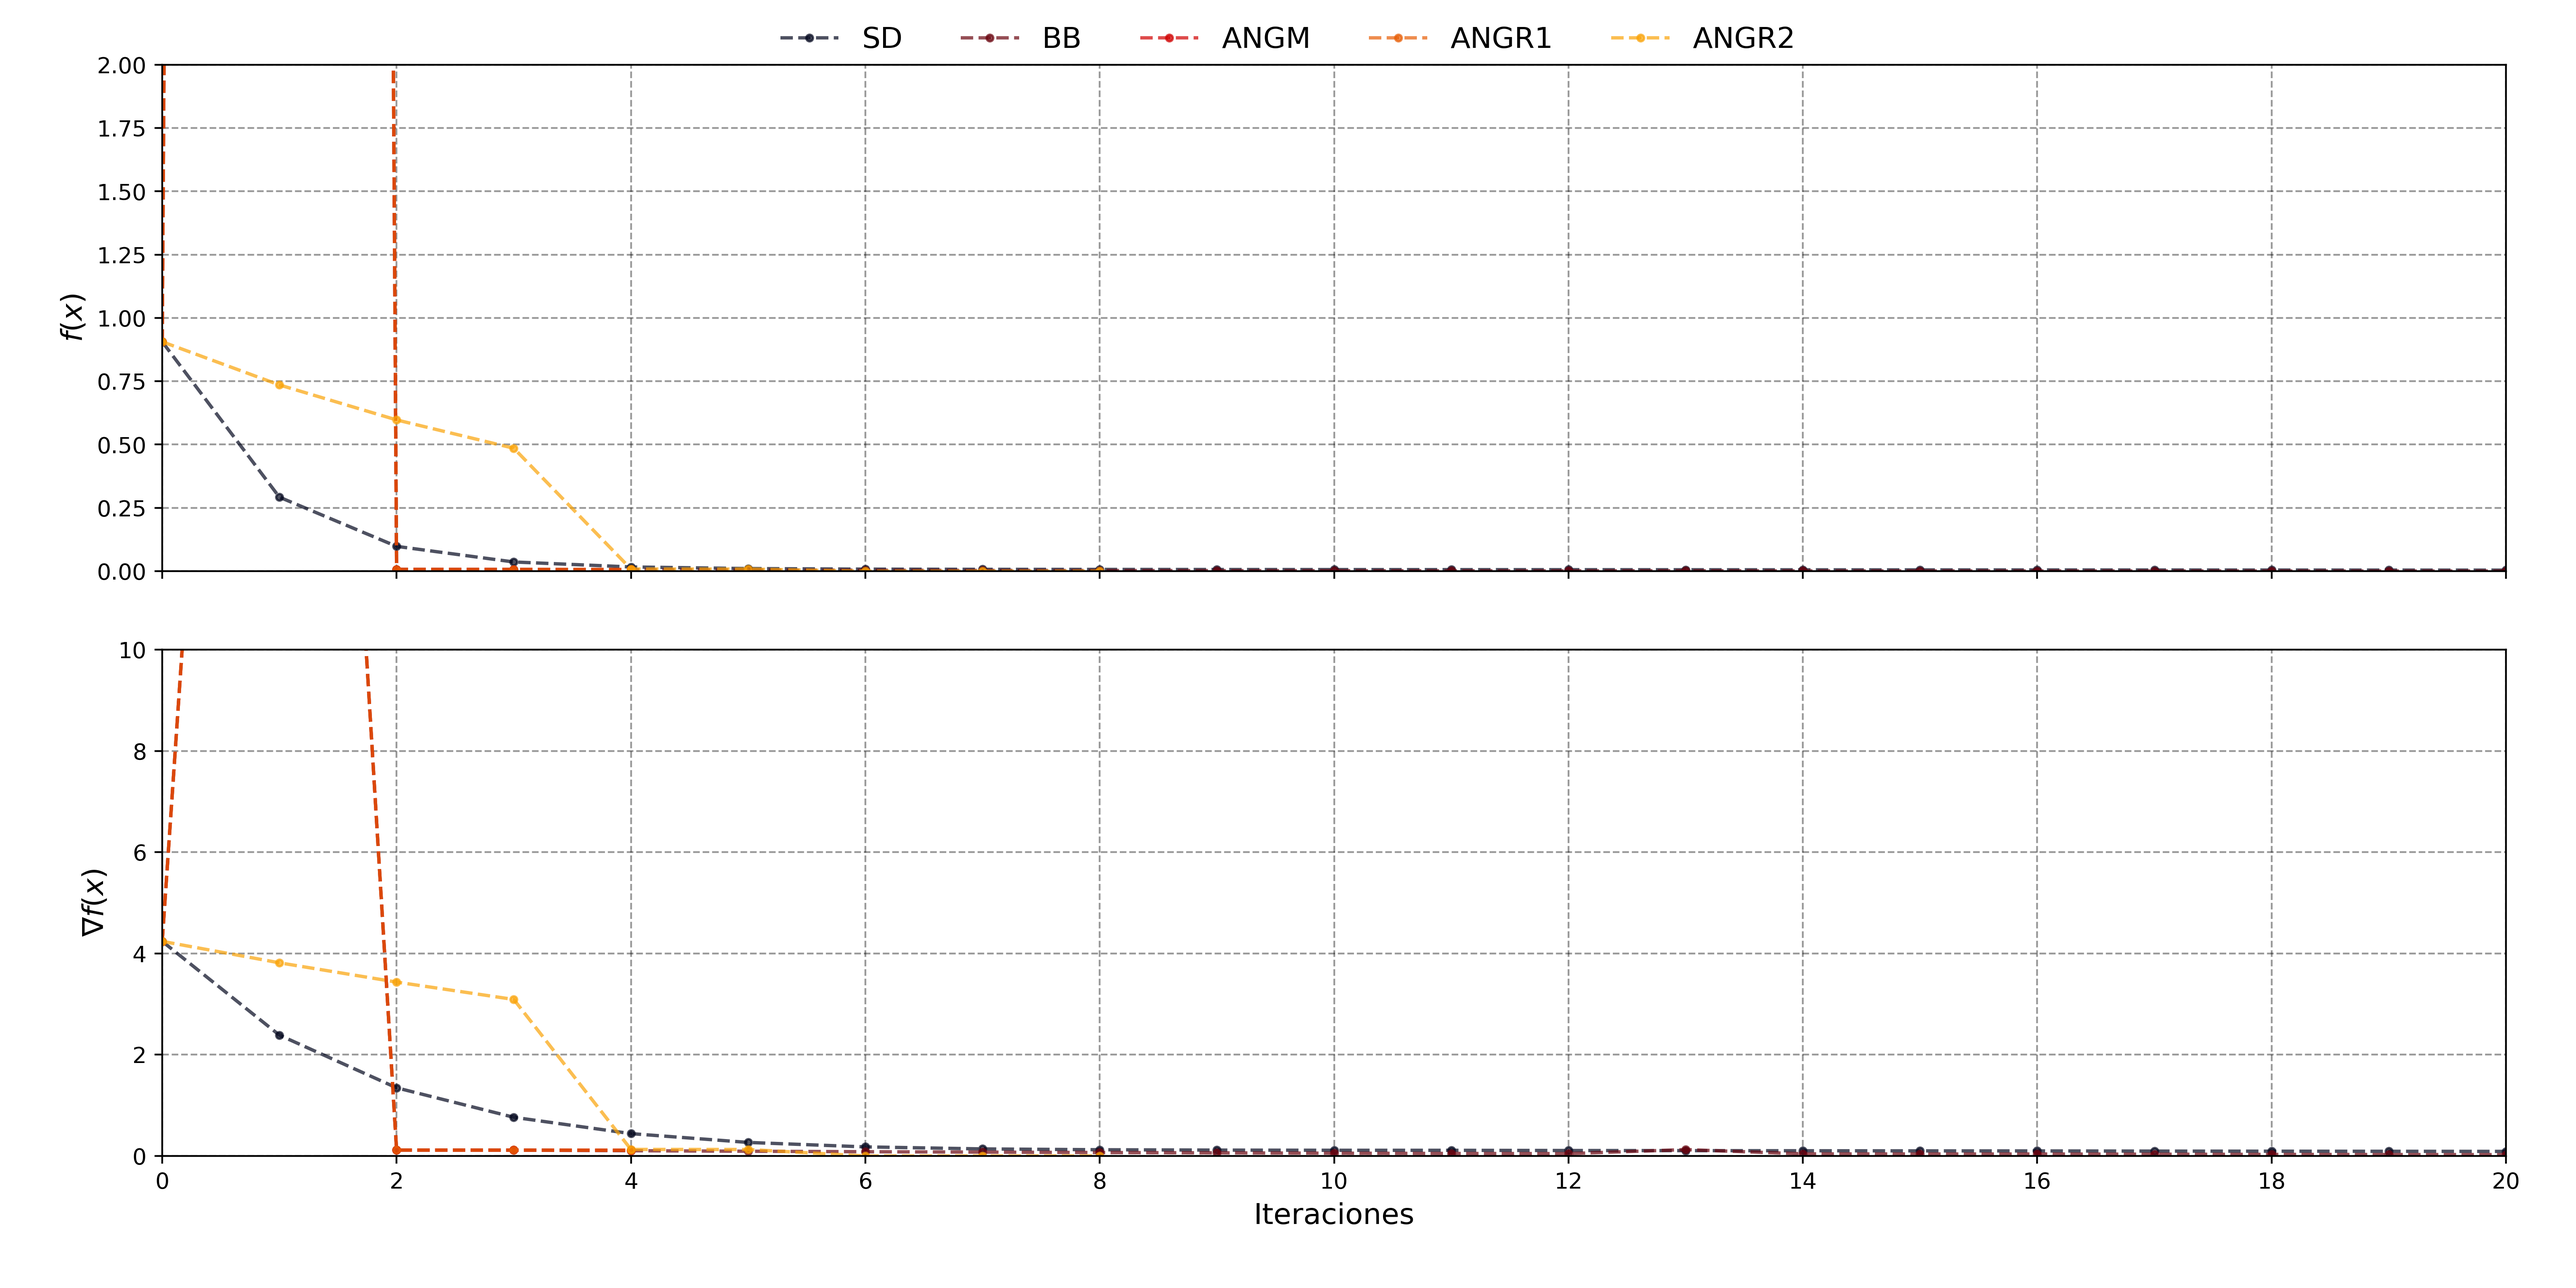
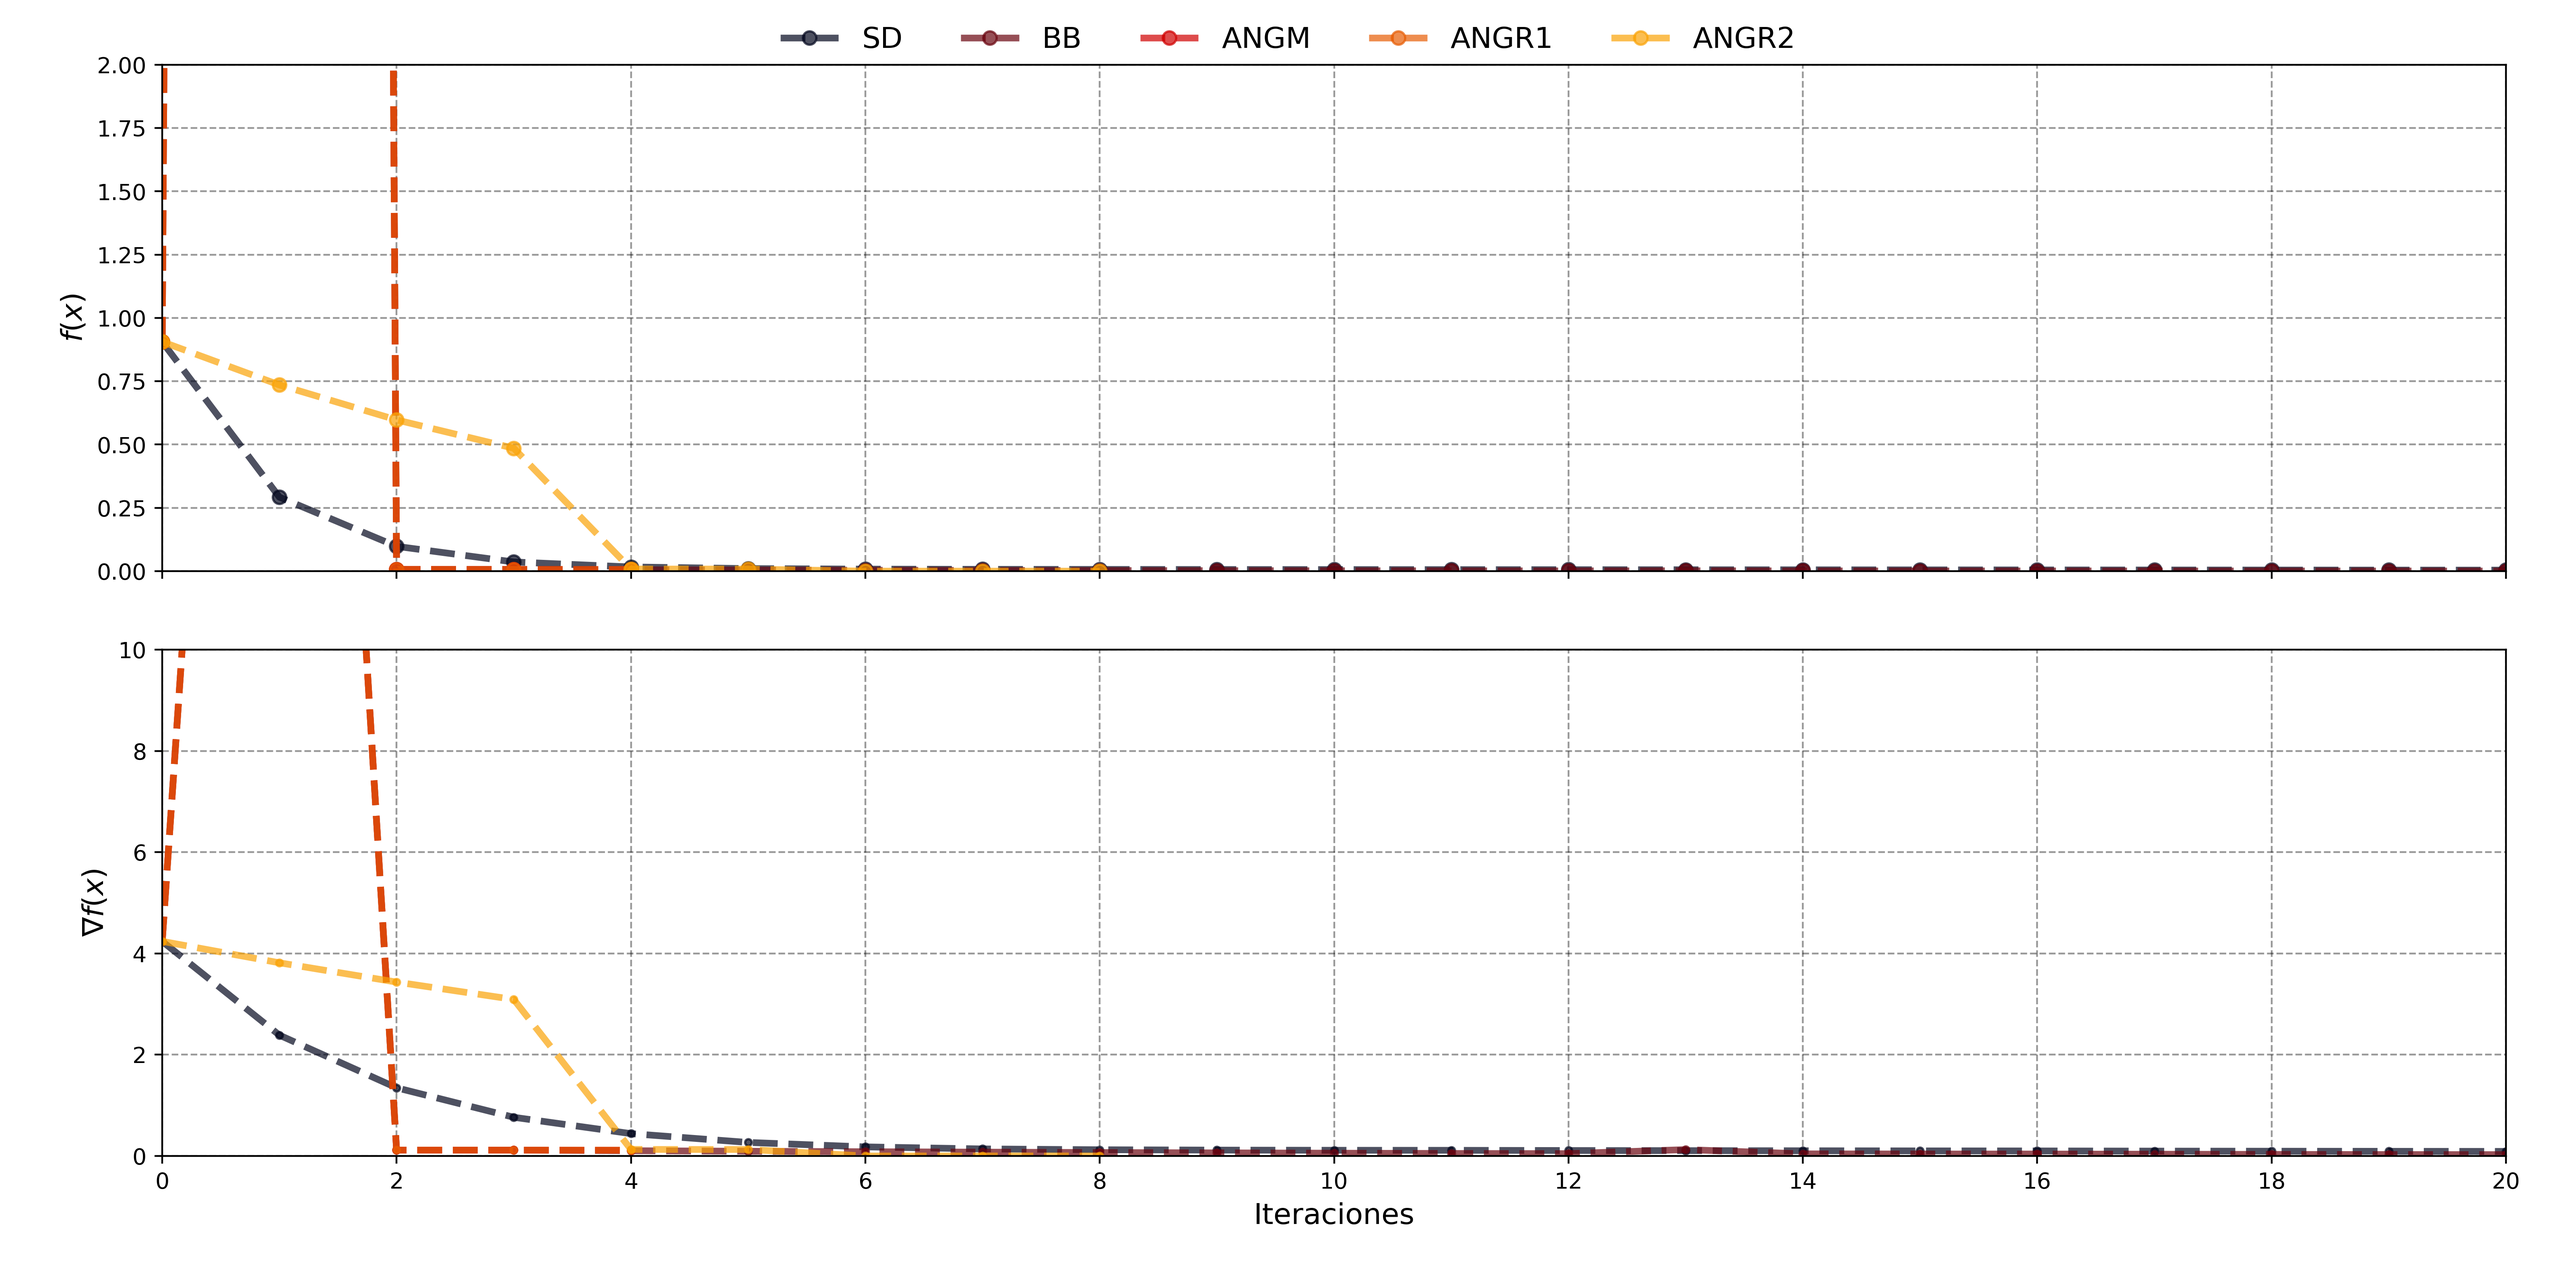
Change lw

diff --git a/Scripts/Graphics_function_track.py b/Scripts/Graphics_function_track.py
@@ -14,27 +14,28 @@ def create_temporal_params(x: array) -> dict:
     return params
 
 
-datasets = {"rosembrock": {"x ticks": range(0, 105, 5),
-                           "x lim": 100,
-                           "y1 lim": 20,
-                           "y2 lim": 100,
-                           },
-            "quadratic": {"x ticks": range(0, 22, 2),
-                          "x lim": 20,
-                          "y1 lim": 2,
-                          "y2 lim": 10,
-                          "lambda": 10,
-                          },
-            }
+datasets = {
+    "rosembrock": {
+        "x ticks": range(0, 105, 5),
+        "x lim": 100,
+        "y1 lim": 20,
+        "y2 lim": 100,
+    },
+    "quadratic": {
+        "x ticks": range(0, 22, 2),
+        "x lim": 20,
+        "y1 lim": 2,
+        "y2 lim": 10,
+        "lambda": 10,
+    },
+}
 methods = get_methods_names()
 params = get_params()
 for function_name in datasets:
     params["function name"] = function_name
     dataset = datasets[params["function name"]]
     params.update(dataset)
-    fig, (ax1, ax2) = plt.subplots(2, 1,
-                                   sharex=True,
-                                   figsize=(16, 8))
+    fig, (ax1, ax2) = plt.subplots(2, 1, sharex=True, figsize=(16, 8))
     for method in methods:
         params["method"] = method
         color = methods[method]["color"]
@@ -44,11 +45,9 @@ for function_name in datasets:
         algorithm = optimize_method_position_track(params)
         folder = algorithm.create_folder_results()
         filename = "{}.csv".format(params["search algorithm"])
-        filename = join(folder,
-                        filename)
+        filename = join(folder, filename)
         data = read_csv(filename)
-        positions = list(zip(data["0"],
-                             data["1"]))
+        positions = list(zip(data["0"], data["1"]))
         data["x"] = positions
         data["x"] = data["x"].apply(lambda x: array(x))
         data["function"] = data["x"].apply(
@@ -56,25 +55,28 @@ for function_name in datasets:
         data["gradient"] = data["x"].apply(
             lambda x: norm(function.gradient(x, create_temporal_params(x))))
         ax1.plot(data["function"],
-                 marker=".",
+                 marker="o",
                  ls="--",
                  alpha=0.7,
                  label=title,
-                 color=color)
+                 color=color,
+                 lw=3)
         ax1.grid(ls="--",
                  color="#000000",
                  alpha=0.4)
-        ax1.set_xlim(0, dataset["x lim"])
+        ax1.set_xlim(0,
+                     dataset["x lim"])
         ax1.set_xticks([value
                         for value in dataset["x ticks"]])
-        ax1.set_ylabel("$f(x)$",
-                       fontsize=13)
-        ax1.set_ylim(0, dataset["y1 lim"])
+        ax1.set_ylabel("$f(x)$", fontsize=13)
+        ax1.set_ylim(0,
+                     dataset["y1 lim"])
         ax2.plot(data["gradient"],
                  marker=".",
                  ls="--",
                  color=color,
-                 alpha=0.7)
+                 alpha=0.7,
+                 lw=3)
         ax2.grid(ls="--",
                  color="#000000",
                  alpha=0.4)
